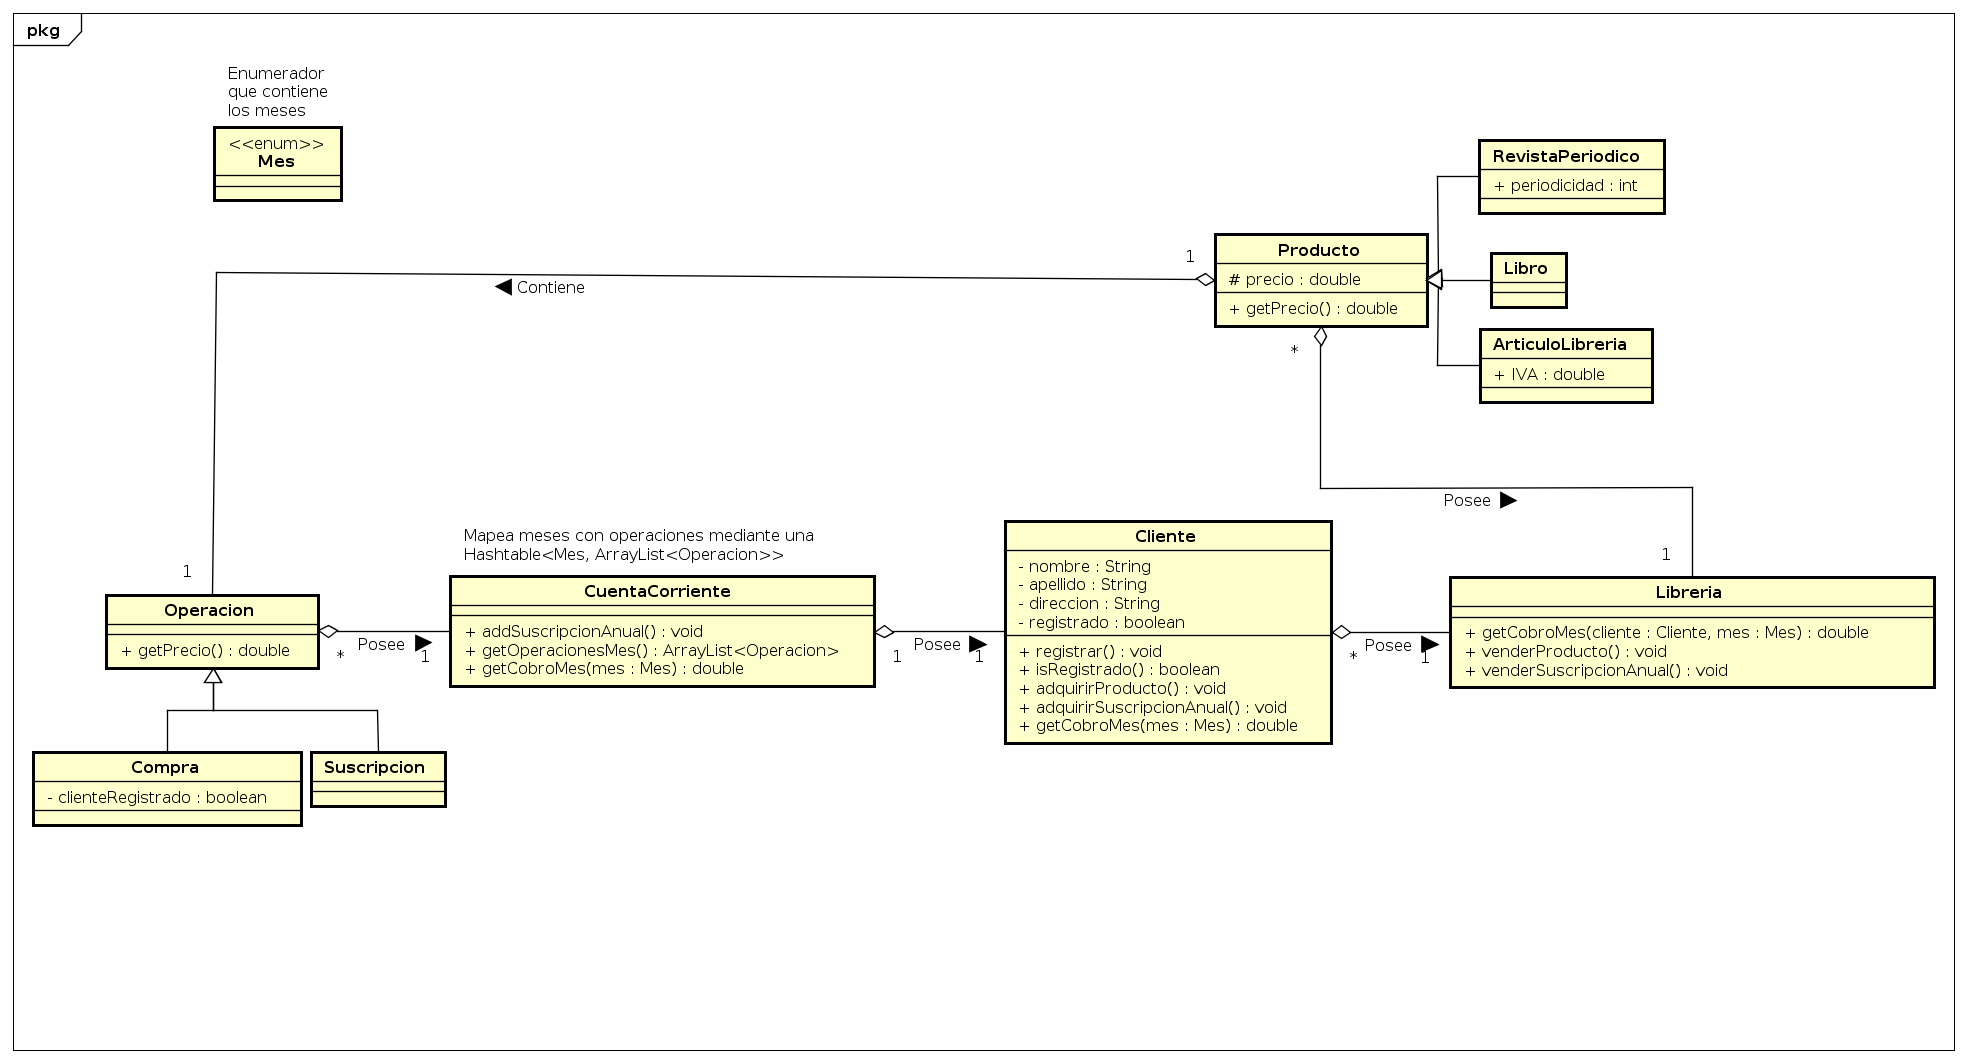
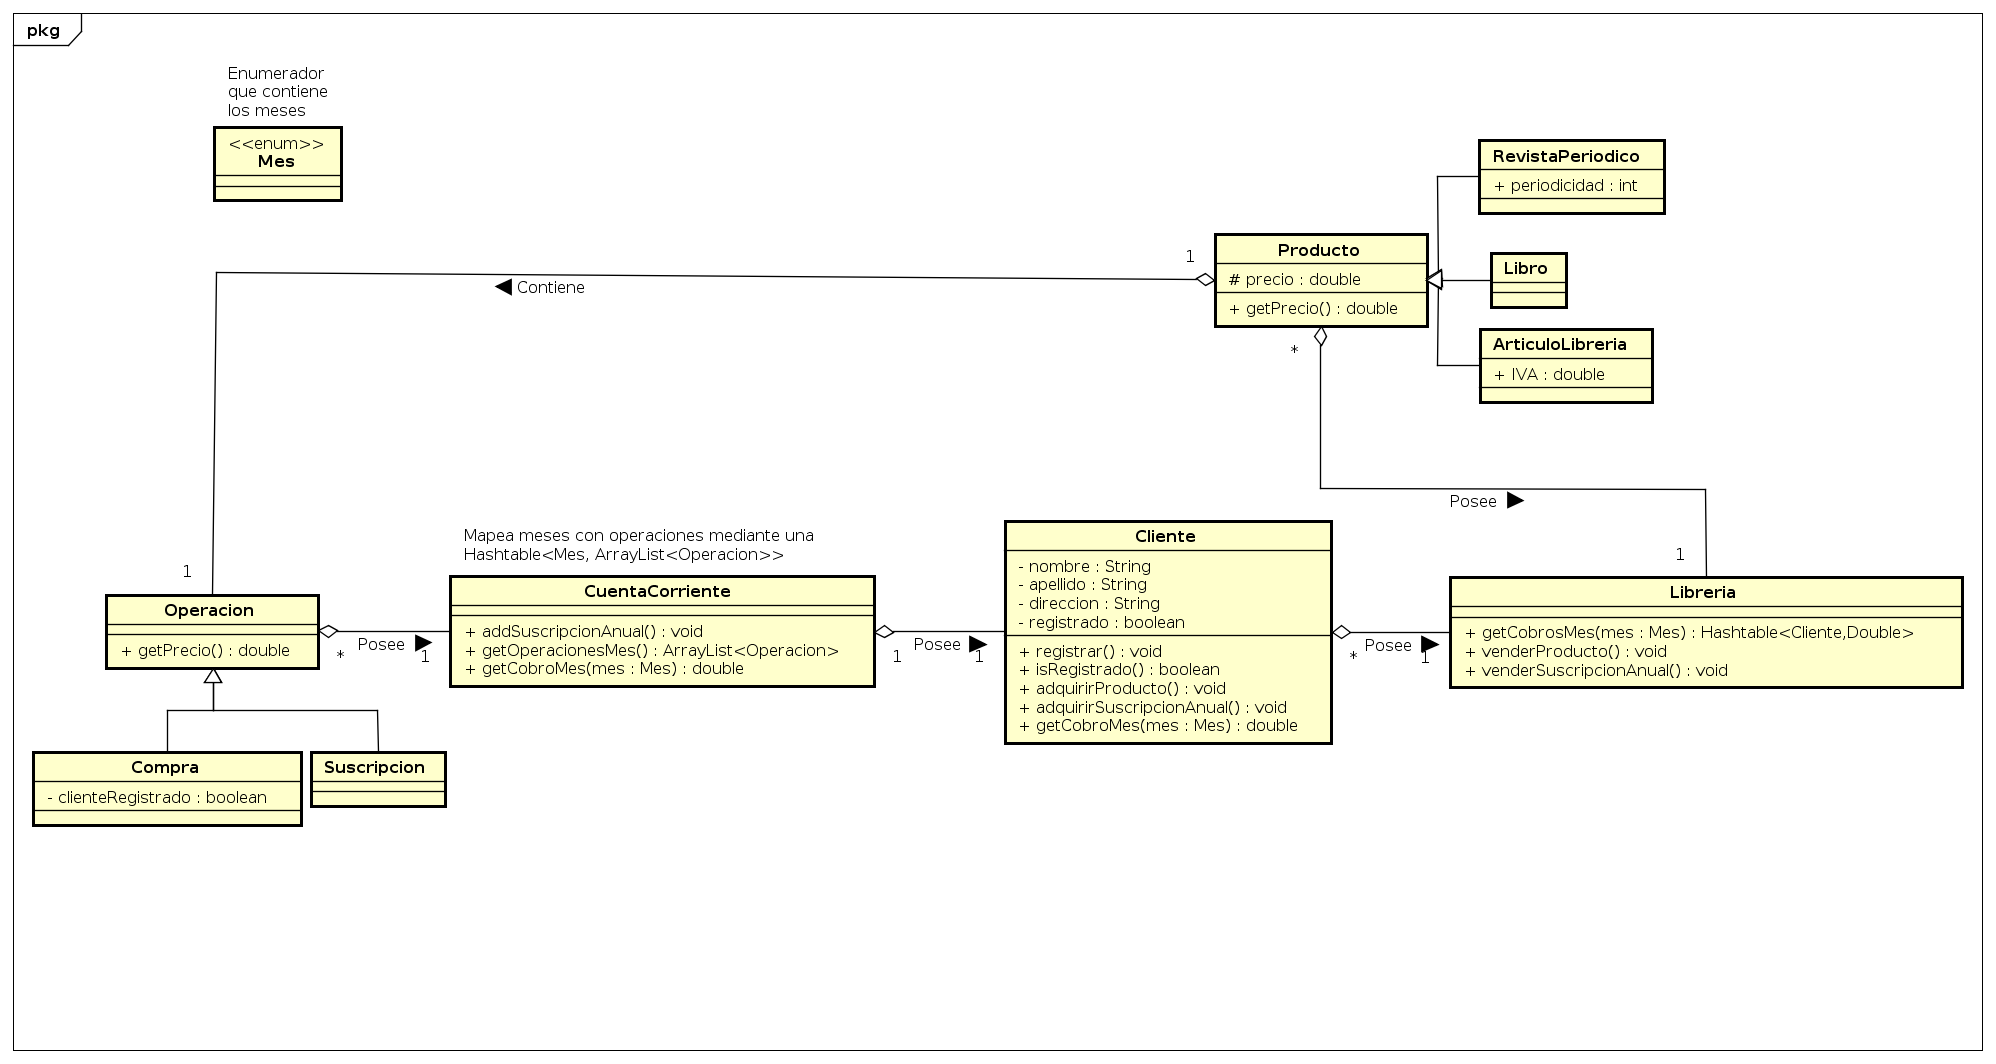
Mejorada indentacion, agregado metodo para listar e imprimir las cobranzas a todos los clientes y rehechos los diagramas de la documentacion

diff --git a/libreria/src/main/java/ar/edu/untref/dyasc/Main.java b/libreria/src/main/java/ar/edu/untref/dyasc/Main.java
@@ -1,8 +1,21 @@
 package ar.edu.untref.dyasc;
 
+import java.util.Collections;
+import java.util.Hashtable;
+import java.util.List;
+
 import Enums.Mes;
 
 public class Main {
+
+    public static void printClientesHashtable(Hashtable<Cliente, Double> dict) {
+        List<Cliente> keys = Collections.list(dict.keys());
+        for (Cliente cliente : keys) {
+            String line = String.format("%s %s: $%f", cliente.getNombre(),
+                    cliente.getApellido(), dict.get(cliente));
+            System.out.println(line);
+        }
+    }
 
     public static void main(String args[]) {
         final double IVA = 0.21;
@@ -16,9 +29,10 @@ public class Main {
         Cliente cliente1 = new Cliente(ccCliente1);
         Cliente cliente2 = new Cliente(ccCliente2);
         Cliente cliente3 = new Cliente(ccCliente3);
-        //Registramos algunos clientes
-        cliente2.registrar("Nombre1", "Apellido1", "Dir1 1234");
-        cliente3.registrar("Nombre2", "Apellido2", "Dir2 1234");
+        // Registramos algunos clientes
+        cliente1.registrar("Nombre1", "Apellido1", "Dir1 1234");
+        cliente2.registrar("Nombre2", "Apellido2", "Dir2 5121");
+        cliente3.registrar("Nombre3", "Apellido3", "Dir3 5412");
         // Agregamos los clientes a la libreria
         libreria.addCliente(cliente1);
         libreria.addCliente(cliente2);
@@ -32,25 +46,19 @@ public class Main {
         libreria.addProducto(libro);
         libreria.addProducto(artLibreria);
         libreria.addProducto(revista);
-        libreria.addProducto(periodico);        
+        libreria.addProducto(periodico);
         // Hacemos que el cliente1 compre un libro y se suscriba a una revista
         libreria.venderProducto(libro, cliente1, Mes.MARZO);
         libreria.venderSuscripcionAnual(revista, cliente1);
-        // Imprimimos cuanto le cobramos al cliente1 en Marzo
-        System.out.printf("Cobro de Marzo para el cliente1: %f\n",
-                libreria.getCobroMes(cliente1, Mes.MARZO));
-        // Hacemos que el cliente2 compre un artibulo de libreria y se suscriba a un periodico
-        libreria.venderProducto(libro, cliente2, Mes.AGOSTO);
+        // Hacemos que el cliente2 compre un artibulo de libreria y se suscriba
+        // a un periodico
+        libreria.venderProducto(libro, cliente2, Mes.MARZO);
         libreria.venderSuscripcionAnual(periodico, cliente2);
-        // Imprimimos cuanto le cobramos al cliente1 en Marzo
-        System.out.printf("Cobro de Agosto para el cliente2: %f\n",
-                libreria.getCobroMes(cliente2, Mes.AGOSTO));
         // Hacemos que el cliente3 compre un articulo de libreria y un periodico
-        libreria.venderProducto(artLibreria, cliente3, Mes.ENERO);
-        libreria.venderProducto(periodico, cliente3, Mes.ENERO);
-        // Imprimimos cuanto le cobramos al cliente1 en Enero
-        System.out.printf("Cobro de Enero para el cliente3: %f\n",
-                libreria.getCobroMes(cliente3, Mes.ENERO));
+        libreria.venderProducto(artLibreria, cliente3, Mes.MARZO);
+        libreria.venderProducto(periodico, cliente3, Mes.MARZO);
+        // Imprimimos cuanto le cobramos a los clientes en Marzo
+        System.out.println("Cobro de Marzo para los clientes:");
+        Main.printClientesHashtable(libreria.getCobrosMes(Mes.MARZO));
     }
-
 }

diff --git a/libreria/src/main/java/ar/edu/untref/dyasc/Cliente.java b/libreria/src/main/java/ar/edu/untref/dyasc/Cliente.java
@@ -13,12 +13,50 @@ public class Cliente {
     public Cliente(CuentaCorriente cuentaCorriente) {
         this.cuentaCorriente = cuentaCorriente;
     }
-    
-    public void registrar(String nombre, String apellido, String direccion){
-        this.nombre = nombre;
-        this.apellido = apellido;
+
+    public void registrar(String nombre, String apellido, String direccion) {
+        this.setNombre(nombre);
+        this.setApellido(apellido);
         this.direccion = direccion;
         registrado = true;
+    }
+
+    public boolean isRegistrado() {
+        return registrado;
+    }
+
+    public void setRegistrado(boolean registrado) {
+        this.registrado = registrado;
+    }
+
+    public double getCobroMes(Mes mes) {
+        return cuentaCorriente.getCobroMes(mes);
+    }
+
+    public void adquirirProducto(Producto producto, Mes mes) {
+        Compra compra = new Compra(producto, registrado);
+        cuentaCorriente.addOperacion(compra, mes);
+    }
+
+    public void adquirirSuscripcionAnual(RevistaPeriodico producto) {
+        Suscripcion suscripcion = new Suscripcion(producto);
+        cuentaCorriente.addSuscripcionAnual(suscripcion);
+    }
+
+    public String getNombre() {
+        return this.nombre;
+    }
+
+    public void setNombre(String nombre) {
+        this.nombre = nombre;
+    }
+
+    public String getApellido() {
+        return this.apellido;
+    }
+
+    public void setApellido(String apellido) {
+        this.apellido = apellido;
     }
 
     public String getDireccion() {
@@ -36,27 +74,4 @@ public class Cliente {
     public void setCuentaCorriente(CuentaCorriente cuentaCorriente) {
         this.cuentaCorriente = cuentaCorriente;
     }
-
-    public boolean isRegistrado() {
-        return registrado;
-    }
-
-    public void setRegistrado(boolean registrado) {
-        this.registrado = registrado;
-    }
-    
-    public double getCobroMes(Mes mes){
-        return cuentaCorriente.getCobroMes(mes);
-    }
-    
-    public void adquirirProducto(Producto producto, Mes mes){
-        Compra compra = new Compra(producto, registrado);
-        cuentaCorriente.addOperacion(compra, mes);
-    }
-    
-    public void adquirirSuscripcionAnual(RevistaPeriodico producto){
-        Suscripcion suscripcion = new Suscripcion(producto);
-        cuentaCorriente.addSuscripcionAnual(suscripcion);
-    }
-
 }

diff --git a/libreria/src/main/java/ar/edu/untref/dyasc/CuentaCorriente.java b/libreria/src/main/java/ar/edu/untref/dyasc/CuentaCorriente.java
@@ -6,6 +6,7 @@ import java.util.Hashtable;
 import Enums.Mes;
 
 public class CuentaCorriente {
+    
     private Hashtable<Mes, ArrayList<Operacion>> operaciones = new Hashtable<Mes, ArrayList<Operacion>>();
 
     public void addOperacion(Operacion operacion, Mes mes) {
@@ -14,24 +15,24 @@ public class CuentaCorriente {
         }
         this.operaciones.get(mes).add(operacion);
     }
-    
+
     public void addSuscripcionAnual(Operacion operacion) {
         for (Mes mes : Mes.values()) {
             addOperacion(operacion, mes);
         }
     }
-    
-    private ArrayList<Operacion> getOperacionesMes(Mes mes){
-        if(!this.operaciones.containsKey(mes)){
+
+    private ArrayList<Operacion> getOperacionesMes(Mes mes) {
+        if (!this.operaciones.containsKey(mes)) {
             return new ArrayList<Operacion>();
         }
         return this.operaciones.get(mes);
     }
-    
-    public double getCobroMes(Mes mes){
+
+    public double getCobroMes(Mes mes) {
         double result = 0;
         ArrayList<Operacion> operacionesMes = getOperacionesMes(mes);
-        for(int i =0;i<operacionesMes.size();i++){
+        for (int i = 0; i < operacionesMes.size(); i++) {
             result += operacionesMes.get(i).getPrecio();
         }
         return result;

diff --git a/libreria/src/main/java/ar/edu/untref/dyasc/Libreria.java b/libreria/src/main/java/ar/edu/untref/dyasc/Libreria.java
@@ -1,6 +1,7 @@
 package ar.edu.untref.dyasc;
 
 import java.util.ArrayList;
+import java.util.Hashtable;
 
 import Enums.Mes;
 
@@ -25,8 +26,12 @@ public class Libreria {
         return this.clientes;
     }
 
-    public double getCobroMes(Cliente cliente, Mes mes) {
-        return cliente.getCobroMes(mes);
+    public Hashtable<Cliente, Double> getCobrosMes(Mes mes) {
+        Hashtable<Cliente, Double> cobros = new Hashtable<Cliente, Double>();
+        for (Cliente cliente : clientes) {
+            cobros.put(cliente, cliente.getCobroMes(mes));
+        }
+        return cobros;
     }
 
     public void venderProducto(Producto producto, Cliente cliente, Mes mes) {

diff --git a/libreria/src/main/java/ar/edu/untref/dyasc/Operacion.java b/libreria/src/main/java/ar/edu/untref/dyasc/Operacion.java
@@ -1,22 +1,22 @@
 package ar.edu.untref.dyasc;
 
 public class Operacion {
-    
+
     protected Producto producto;
-    
-    public Operacion(Producto producto){
+
+    public Operacion(Producto producto) {
         this.producto = producto;
     }
 
-    public double getPrecio(){
+    public double getPrecio() {
         return producto.getPrecio();
     }
-    
+
     public Producto getProducto() {
         return producto;
     }
 
     public void setProducto(Producto producto) {
         this.producto = producto;
-    }   
+    }
 }

diff --git a/libreria/src/main/java/Enums/Mes.java b/libreria/src/main/java/Enums/Mes.java
@@ -1,16 +1,5 @@
 package Enums;
 
 public enum Mes {
-    ENERO,
-    FEBRERO,
-    MARZO,
-    ABRIL,
-    MAYO,
-    JUNIO,
-    JULIO,
-    AGOSTO,
-    SEPTIEMBRE,
-    OCTUBRE,
-    NOVIEMBRE,
-    DICIEMBRE
+    ENERO, FEBRERO, MARZO, ABRIL, MAYO, JUNIO, JULIO, AGOSTO, SEPTIEMBRE, OCTUBRE, NOVIEMBRE, DICIEMBRE
 }

diff --git a/libreria/src/main/java/ar/edu/untref/dyasc/ArticuloLibreria.java b/libreria/src/main/java/ar/edu/untref/dyasc/ArticuloLibreria.java
@@ -17,7 +17,7 @@ public class ArticuloLibreria extends Producto {
         this.IVA = IVA;
     }
 
-    //Devuelve el precio con el IVA aplicado
+    // Devuelve el precio con el IVA aplicado
     @Override
     public double getPrecio() {
         return precio + precio * IVA;

diff --git a/libreria/src/main/java/ar/edu/untref/dyasc/Producto.java b/libreria/src/main/java/ar/edu/untref/dyasc/Producto.java
@@ -2,8 +2,8 @@ package ar.edu.untref.dyasc;
 
 public class Producto {
     protected double precio;
-    
-    public Producto(double precio){
+
+    public Producto(double precio) {
         this.precio = precio;
     }
 

diff --git a/libreria/src/main/java/ar/edu/untref/dyasc/Compra.java b/libreria/src/main/java/ar/edu/untref/dyasc/Compra.java
@@ -1,7 +1,7 @@
 package ar.edu.untref.dyasc;
 
 public class Compra extends Operacion {
-    
+
     private boolean clienteRegistrado;
     
     public Compra(Producto producto, boolean clienteRegistrado) {
